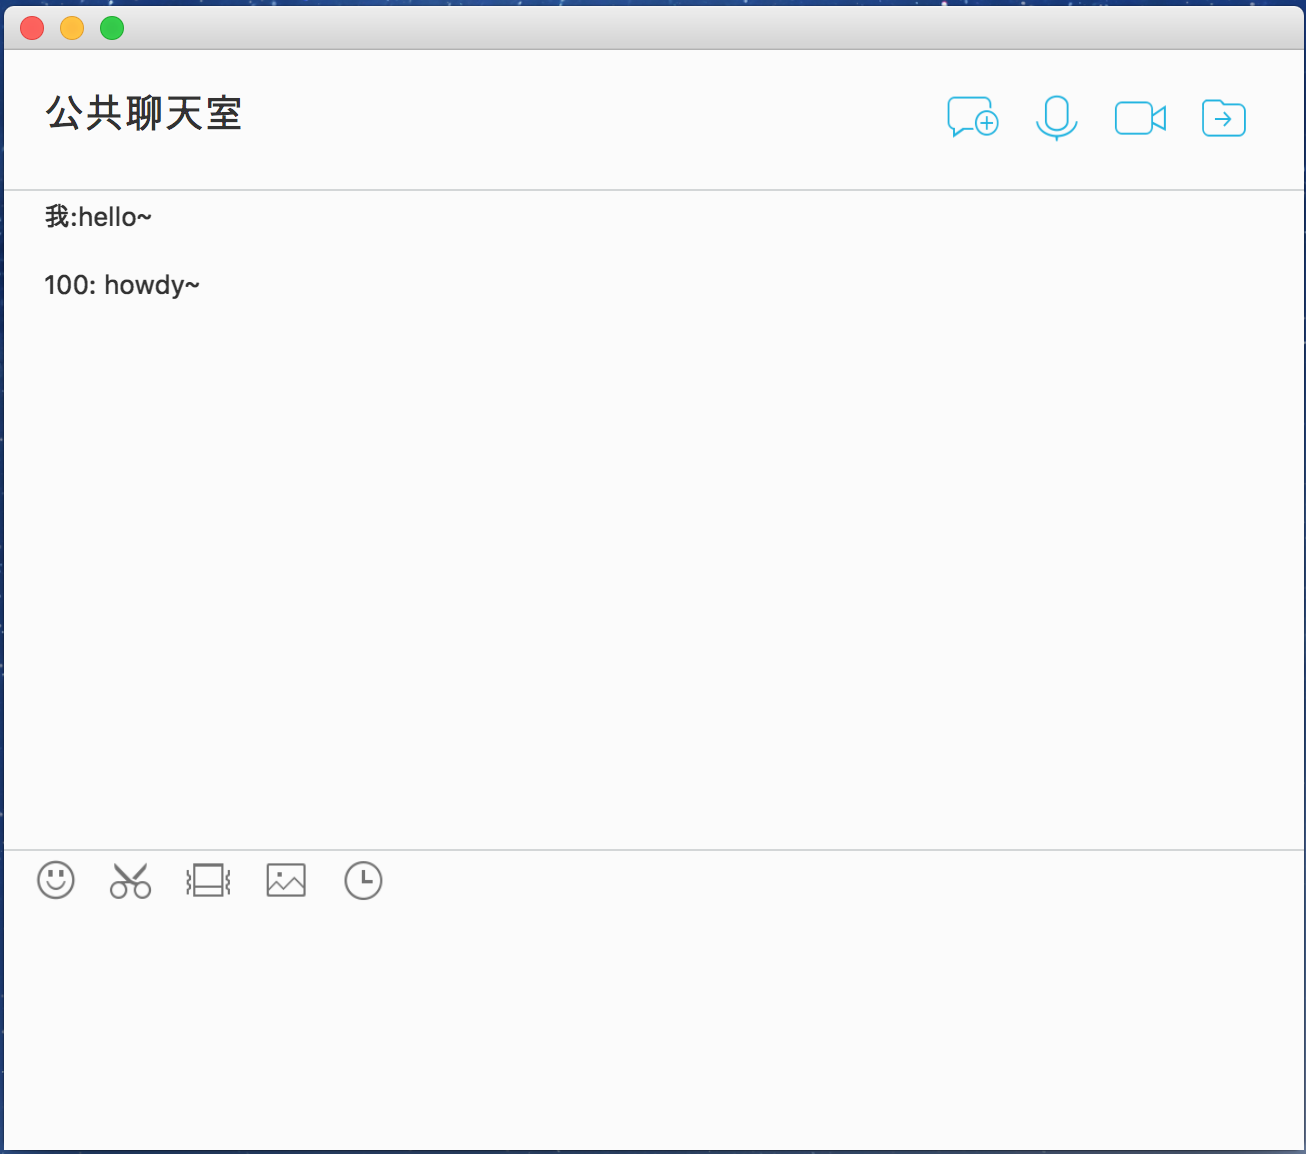
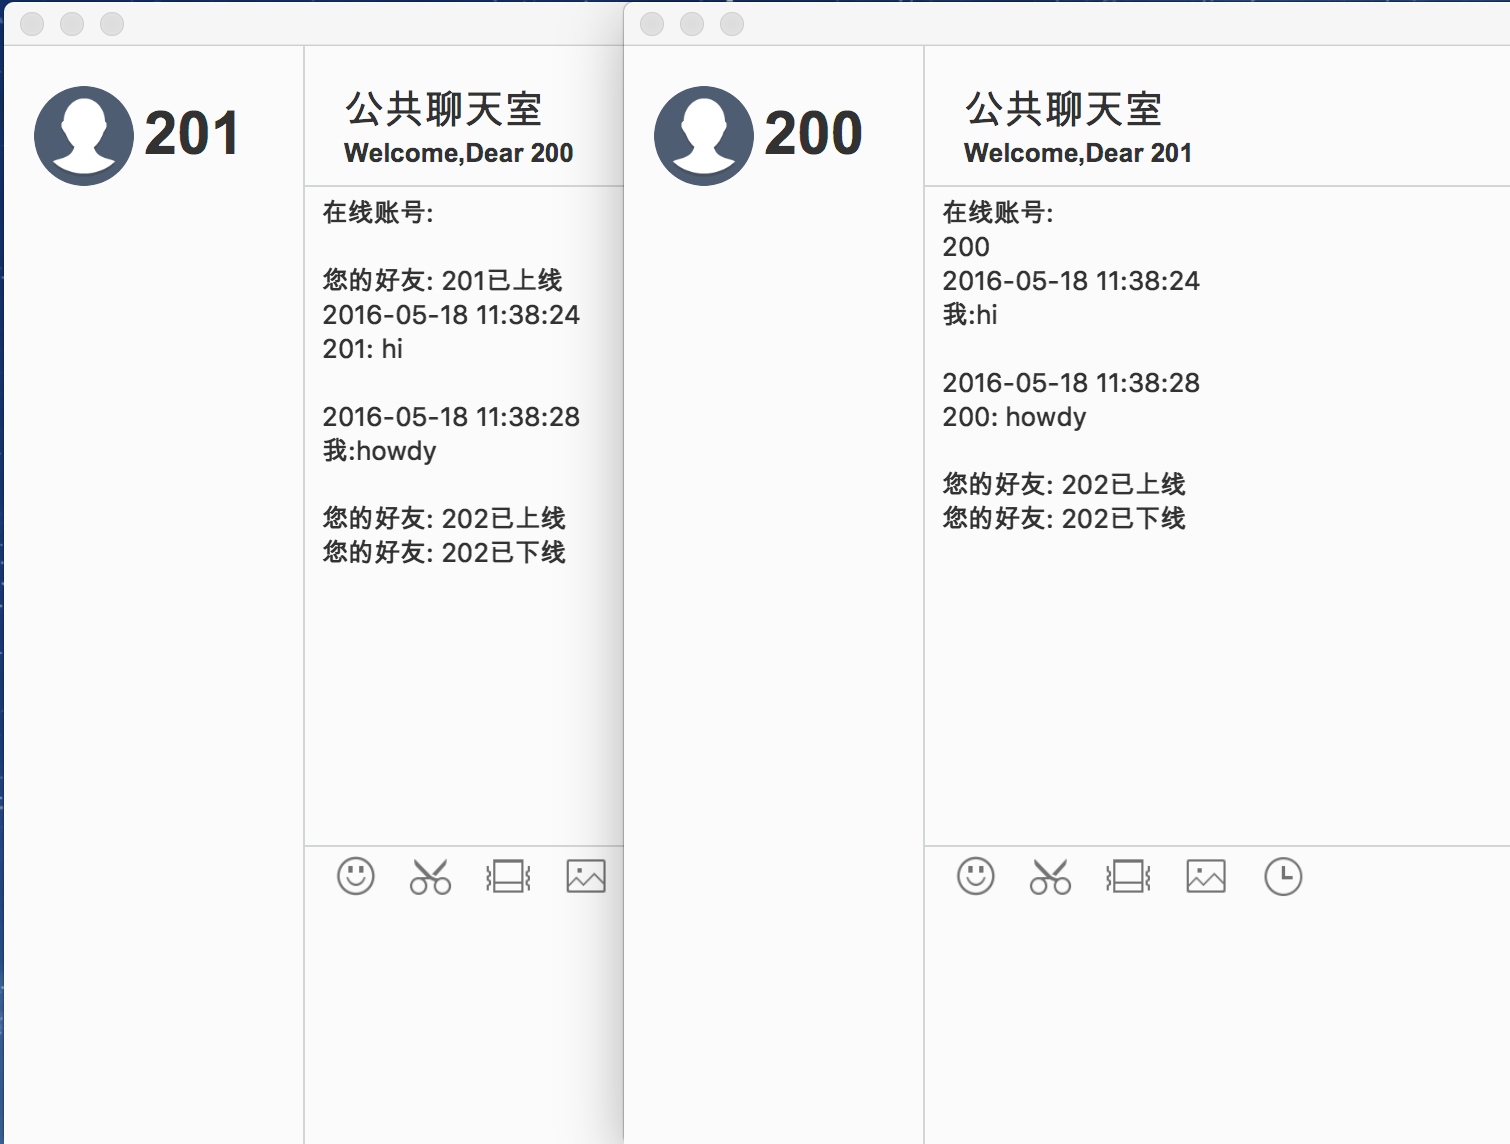
更新readme

diff --git a/src/gui/Login.css b/src/gui/Login.css
@@ -24,6 +24,11 @@
     -fx-font-size: 20px;
 }
 
+#clientName {
+    -fx-font-family: sans-serif;
+    -fx-font-size: 13px;
+}
+
 #userName {
     -fx-font-family: sans-serif;
     -fx-font-size: 30px;

diff --git a/src/main/java/client/ClientGUI.java b/src/main/java/client/ClientGUI.java
@@ -331,6 +331,14 @@ public class ClientGUI extends Application {
         });
     }
 
+    private void showClientName(){
+        Label clientName = new Label("Welcome,Dear "+client.getAccount());
+
+        clientName.setId("clientName");
+        clientName.setLayoutX(170);
+        clientName.setLayoutY(45);
+        chat.getChildren().add(clientName);
+    }
     private void doLogin(){
         //        加载icon
         load = new ImageView(new Image(prePath + "/load.gif"));
@@ -405,6 +413,7 @@ public class ClientGUI extends Application {
         Platform.runLater(new Runnable() {
             @Override
             public void run() {
+                showClientName();
                 updateScene(sceneChat);
             }
         });
@@ -424,6 +433,7 @@ public class ClientGUI extends Application {
         {
             msgShow.appendText(account+" ");
         }
+        msgShow.appendText("\n");
         client.setGroupId(loginSuccessEvent.getGroupId());
 //        msgShow.appendText("   游客:" + chatContent.getMessage() + "\n\n");
         if(chatContents.size()!=0){
@@ -506,7 +516,7 @@ public class ClientGUI extends Application {
     public void receiveOtherMessage(ReceiveMessageEvent event){
         ChatContent chatContent = event.getChatContent();
 //        msgShow.appendText("   游客:" + chatContent.getMessage() + "\n\n");
-        msgShow.appendText(chatContent.getSendDate()+"   "+chatContent.getSender() + ": "+ chatContent.getMessage() + "\n\n");
+        msgShow.appendText(chatContent.getSendDate()+"\n"+chatContent.getSender() + ": "+ chatContent.getMessage() + "\n\n");
     }
 
     @Subscribe

diff --git a/README.md b/README.md
@@ -55,9 +55,12 @@
 <img src= "https://raw.githubusercontent.com/tztztztztz/bookish-meme/master/doc/img/login.png" height=300>
 
 - 聊天界面    
-     
-<img src= "https://raw.githubusercontent.com/tztztztztz/bookish-meme/master/doc/img/chatting.png" height=450>       
-<img src= "https://raw.githubusercontent.com/tztztztztz/bookish-meme/master/doc/img/chatpic.png" height=450>        
+
+用户200和201次序登陆并聊天：
+<img src= "https://raw.githubusercontent.com/tztztztztz/bookish-meme/master/doc/img/chatting.png" height=450>
+接着同组另一用户202登陆（次序接收所有遗漏消息）
+<img src= "https://raw.githubusercontent.com/tztztztztz/bookish-meme/master/doc/img/chatpic.png" height=450>
+用户202下线
 <img src= "https://raw.githubusercontent.com/tztztztztz/bookish-meme/master/doc/img/chatpic2.png" height=450>   
 
 - 登陆失败警告
